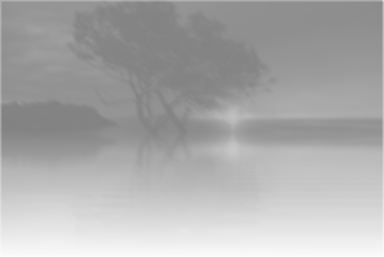
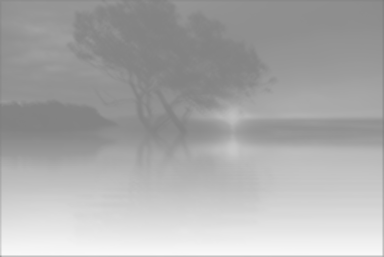
the transparency made for weird edge effects, betting that opaque will behave better?

Changed region(s): [[0.0, 0.6848, 1.0, 1.0], [0.0, 0.0, 1.0, 0.2802], [0.9688, 0.4669, 1.0, 0.5914]]

diff --git a/src/kernel.hpp b/src/kernel.hpp
@@ -65,8 +65,8 @@ private:
                 Pixel currentPixel;
                 if (imageColumnPosition < 0 || imageColumnPosition >= image.width || imageRowPosition < 0 ||
                     imageRowPosition >= image.height) {
-                    // effectively adds an infinite, transparent, black border around the image to handle the edges
-                    currentPixel = Pixel(0, 0, 0, 0);
+                    // effectively adds an infinite, opaque, black border around the image to handle the edges
+                    currentPixel = Pixel(0, 0, 0, 255);
                 } else {
                     currentPixel = image.data[imageRowPosition][imageColumnPosition];
                 }
